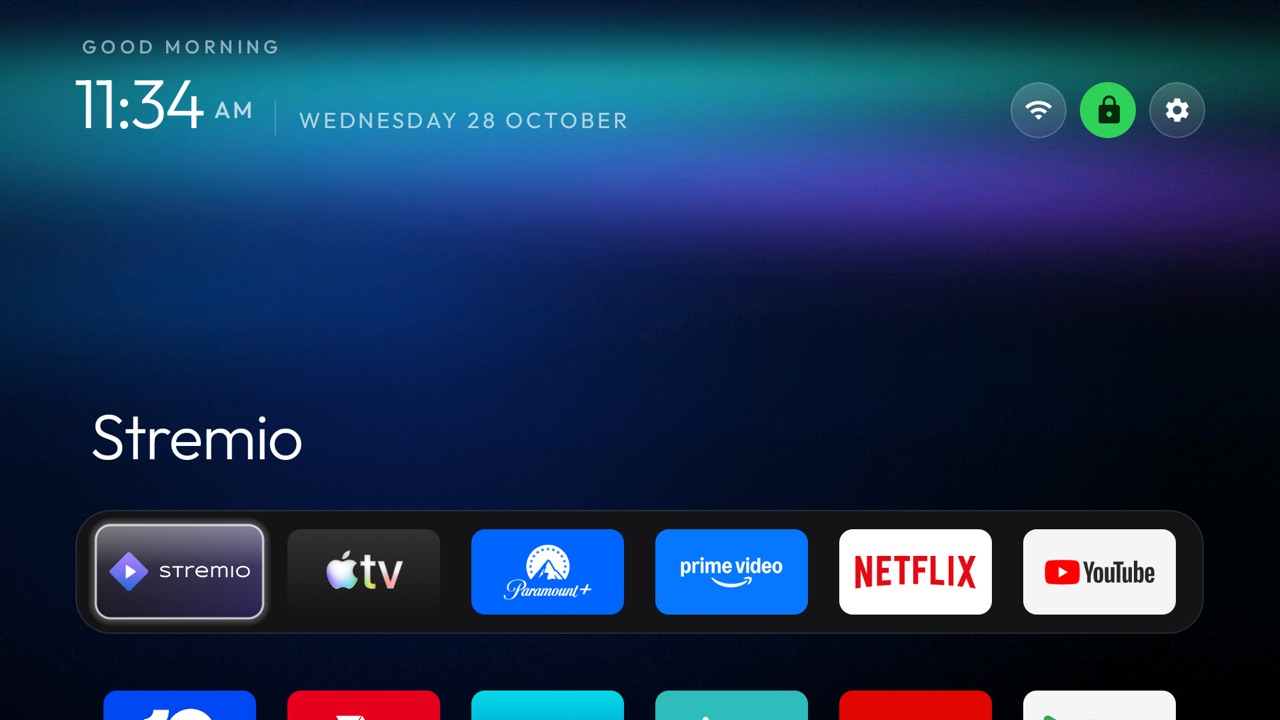
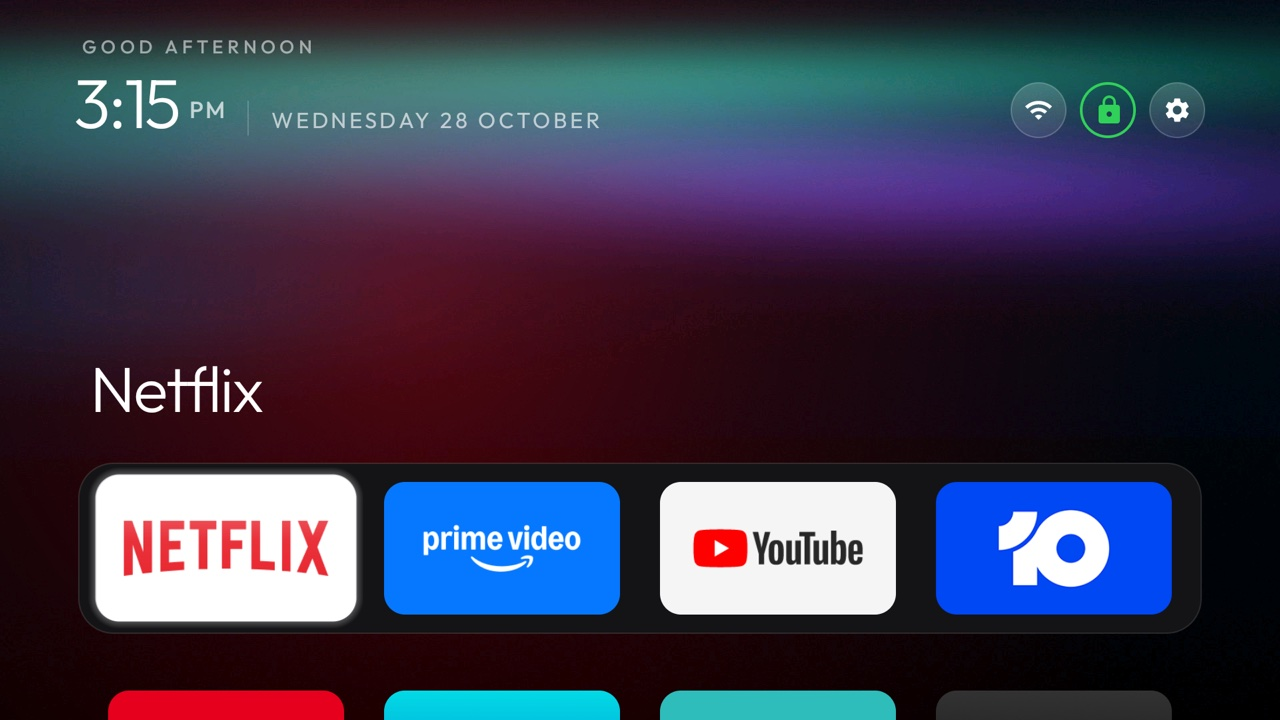
docs: icon_only_vpn screenshots after the outlined VPN pill (#2207)
With a VPN up the round lock is now outlined in green at rest and solid only while focused, like the pill. Both
screenshots retaken on the Chromecast with Google TV 4K (sabrina), Google TV 14, UTTC.250917.004.

diff --git a/docs/switches.md b/docs/switches.md
@@ -55,7 +55,7 @@ fits the rules; keys from before the rule sit on its wanted list until a screens
 | `power_on_home` | <img src="switches/power_on_home.jpg" width="320" alt="power_on_home on a TV"> |
 | `home_long_press_home` | <img src="switches/home_long_press_home.jpg" width="320" alt="home_long_press_home on a TV"> |
 | `vpn_pill` | <img src="switches/vpn_pill.jpg" width="320" alt="vpn_pill on a TV"> <img src="switches/vpn_pill_rest.jpg" width="320" alt="vpn_pill at rest: the pill outlined in red, focus on a tile"> |
-| `icon_only_vpn` | <img src="switches/icon_only_vpn.jpg" width="320" alt="icon_only_vpn with no VPN up: an open lock on the plain round button, between Wi-Fi and Settings"> <img src="switches/icon_only_vpn_on.jpg" width="320" alt="icon_only_vpn with a VPN up: the closed lock in a green outline"> |
+| `icon_only_vpn` | <img src="switches/icon_only_vpn.jpg" width="320" alt="icon_only_vpn with no VPN up: an open lock on the plain round button, between Wi-Fi and Settings"> <img src="switches/icon_only_vpn_on.jpg" width="320" alt="icon_only_vpn with a VPN up: the closed lock in a green outline, focus on a tile"> |
 | `power_on_home_always` | <img src="switches/power_on_home_always.jpg" width="320" alt="power_on_home_always on a TV"> |
 | `inputs_connected_only` | <img src="switches/inputs_connected_only.jpg" width="320" alt="inputs_connected_only on a TV"> |
 | `icon_tiles` | <img src="switches/icon_tiles.jpg" width="320" alt="icon_tiles: an app drawn from its icon in the grid on a TV"> |
